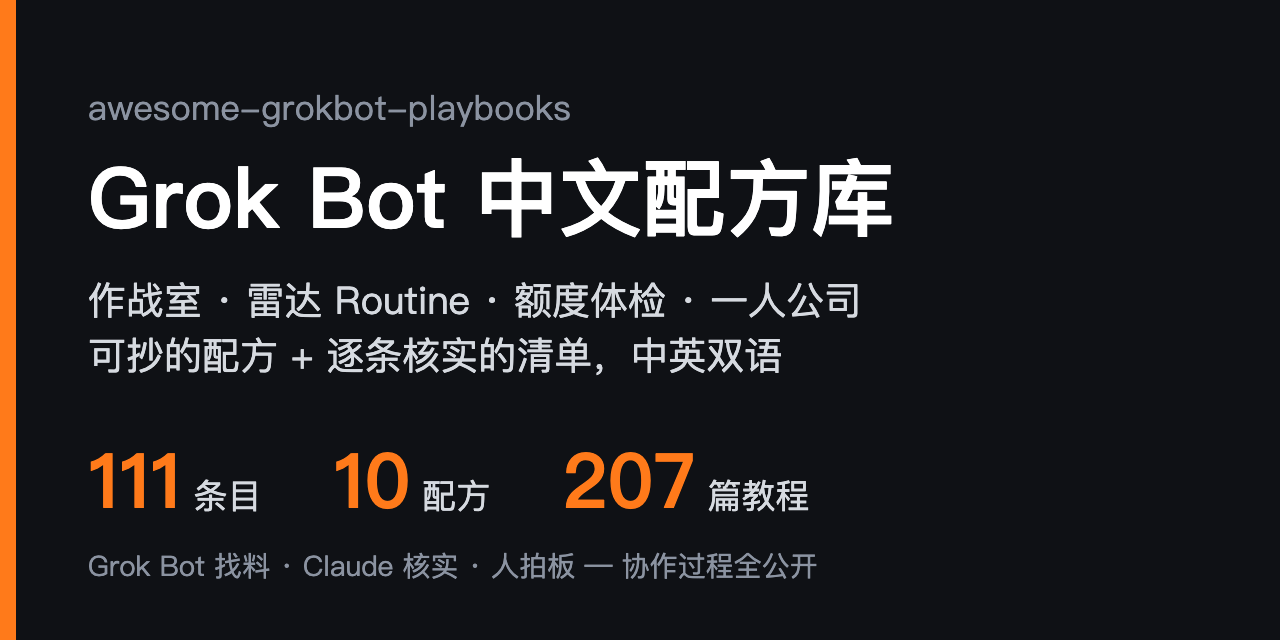
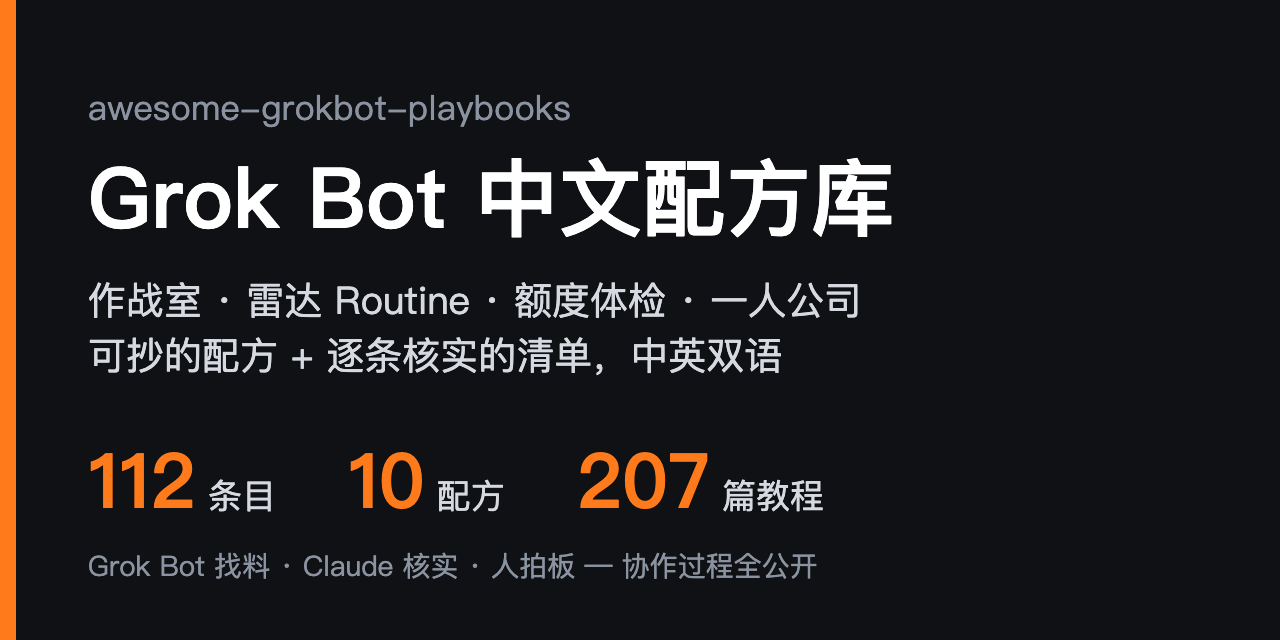
collab: loop #37 README 111 -> 112 (omarchy-grok-bot), recheck +2, rename template-rescue, reject 5

Changed region(s): [[0.4375, 0.6875, 0.6562, 0.8125], [0.25, 0.6875, 0.4062, 0.8125], [0.125, 0.6875, 0.2188, 0.8125]]

diff --git a/README.en.md b/README.en.md
@@ -8,7 +8,7 @@
 
 <p align="center">
   <a href="https://github.com/sit-in/awesome-grokbot-playbooks/stargazers"><img src="https://img.shields.io/github/stars/sit-in/awesome-grokbot-playbooks?style=flat-square&color=ff7a1a" alt="Stars"></a>
-  <img src="https://img.shields.io/badge/entries-111-blue?style=flat-square" alt="Entries">
+  <img src="https://img.shields.io/badge/entries-112-blue?style=flat-square" alt="Entries">
   <img src="https://img.shields.io/badge/recipes-10-blueviolet?style=flat-square" alt="Recipes">
   <img src="https://img.shields.io/badge/last%20verified-2026--10--22-success?style=flat-square" alt="Last verified">
   <a href="https://github.com/sit-in/awesome-grokbot-playbooks/actions/workflows/link-check.yml"><img src="https://github.com/sit-in/awesome-grokbot-playbooks/actions/workflows/link-check.yml/badge.svg" alt="link-check"></a>
@@ -25,7 +25,7 @@
 
 | | |
 |---:|---|
-| **111** | entries, each checked via the GitHub API or the live page: it exists, is still maintained and is actually about Grok Bot; license caveats are noted in the review |
+| **112** | entries, each checked via the GitHub API or the live page: it exists, is still maintained and is actually about Grok Bot; license caveats are noted in the review |
 | **10** | copy-paste recipes in one format: scenario → inputs → steps → prompt → output → pitfalls, all examples sanitized |
 | **3 levels** | of verification: ✅ run end-to-end · 🔍 docs and config reviewed · no mark = repo verified only. ✅ is only for things actually run |
 | **207** | curated community tutorials and X articles ([33 tutorials](docs/community-tutorials.md) + [174 articles from top X creators](docs/x-articles.md)) plus the maintainer's own series, each checked for liveness, author and date |
@@ -61,9 +61,9 @@ It is a different product from the Grok chat assistant and the Grok Build coding
 
 ## 🆕 Recently added
 
-- **10-25** Four rechecked repos added: [grok-bot-agents](https://github.com/AgwaB/grok-bot-agents), which hands heavy work to Claude Code / Codex on the bot's cloud computer; the household-reminders template [Follow-Through](https://github.com/jeffgreendesign/follow-through); [Bot Monitoring Room](https://github.com/Olivia295/grokbot-team-monitor-UI), your bot team as a living office; and the ESP32 desk pet [Grok Bot ESP32 Companion](https://github.com/vliuyt/grok-bot-esp32-bridge); articles from top X creators grew to 174
+- **10-25** Added the Omarchy bar plugin [Grok Bot for Omarchy](https://github.com/hmarquez-solutions/omarchy-grok-bot): one face tells you whether your bots are working, have unread news or are waiting on you; articles from top X creators grew to 174
+- **10-25** Four rechecked repos added: [grok-bot-agents](https://github.com/AgwaB/grok-bot-agents), which hands heavy work to Claude Code / Codex on the bot's cloud computer; the household-reminders template [Follow-Through](https://github.com/jeffgreendesign/follow-through); [Bot Monitoring Room](https://github.com/Olivia295/grokbot-team-monitor-UI), your bot team as a living office; and the ESP32 desk pet [Grok Bot ESP32 Companion](https://github.com/vliuyt/grok-bot-esp32-bridge)
 - **10-24** Added the family dinner-planning template [Personal Chef](https://github.com/anselmcmakin/personal-chef): a week of dinners planned around allergies and budget, with recipe cards, a grocery list and a filled Walmart cart waiting for you to check out
-- **10-24** Added three: [grokbot-executive-team](https://github.com/meir-bot/grokbot-executive-team), an exec bot team built from one prompt; [grokbot-skills](https://github.com/dallintwatts/grokbot-skills), which installs a template's skills and checks their sha256; and the Chinese directory [Grok Bot Hub](https://github.com/ddhjy/grok-bot-hub)
 
 Full history: [README commits](https://github.com/sit-in/awesome-grokbot-playbooks/commits/main/README.md).
 
@@ -71,7 +71,7 @@ Full history: [README commits](https://github.com/sit-in/awesome-grokbot-playboo
 
 - [Official & SDK](#-official--sdk) (5) - official docs, marketplace, SDKs and CLIs
 - [Templates & directories](#-templates--directories) (11) - template libraries, bot-share indexes and use-case sites; check here first
-- [Skills & Playbooks](#-skills--playbooks) (36) - skills, MCP, single templates, copy-paste profiles
+- [Skills & Playbooks](#-skills--playbooks) (37) - skills, MCP, single templates, copy-paste profiles
 - [Multi-bot teams](#-multi-bot-teams) (23) - war rooms, coordinators, multi-agent work
 - [Routines & Digests](#-routines--digests) (7) - scheduled radars, weekly reviews, usage control
 - [Chinese solo-founder](#-chinese-solo-founder) (4) - global support, WeChat, Chinese configs
@@ -139,6 +139,7 @@ Full history: [README commits](https://github.com/sit-in/awesome-grokbot-playboo
 - [Android Grok Home](https://github.com/drumpat01/android-grok-home) - Unofficial Android home launcher (Android 11+, a plain APK, no flashing): an animated avatar wall shows which bots are working, which have a hand raised for you and which just finished, with per-bot voice and text chat. It reaches your own existing bots through a BDK (@cursor/bdk) bridge on your computer; no accounts or keys ship with it, and there is a Demo mode. You build the APK yourself and keep the bridge running on your computer; keep its port on loopback and use private Tailscale for remote access. Some features rely on undocumented interfaces and may break on upstream updates. Tags: `android` `launcher` `bdk` `voice`
 - [Grokbot Widget](https://github.com/imranbarbhuiya/grokbot-widget) - A floating macOS companion (macOS 14+): a draggable character with an expandable chat panel that talks to one of your existing bots through the BDK; release builds bundle Node, so no Terminal needed. The local server binds to loopback only; releases are not notarized, so you allow the app once in System Settings; a mistyped bot name can make the BDK create an empty bot. Tags: `macos` `widget` `bdk`
 - [TetherBot](https://github.com/GrokkingGrok/TetherBot) - Tethers a GNOME desktop to Grok Bot: top-bar status, notifications and quick actions, sending to your bots through a webhook routine and reading their output back from a private GitHub data repo. Runs a user-level daemon that keeps secrets in the system keyring. Pre-alpha, GPL-2.0-or-later. Tags: `gnome` `linux` `desktop` `webhook`
+- [Grok Bot for Omarchy](https://github.com/hmarquez-solutions/omarchy-grok-bot) - An Omarchy (Arch Linux desktop) bar plugin: a Grok Bot face that shows asleep, idle, working, unread or waiting, with the name of the bot that needs you. Click for a panel that puts blocked bots and their reasons first, then every other bot with its last line and unread count. It only reads the state files the desktop app leaves on disk, never talks to servers, reads credentials or writes into the app's folders; "working" is inferred from file writes, so a slow reply can look idle. Tags: `linux` `desktop` `status`
 - [Agent Harbor](https://github.com/TommyBez/agent-harbor) - A macOS workspace that keeps Claude Code and Codex sessions alive in dedicated tmux sessions: you watch, take over or resume them in the desktop app, and Grok Bot drives the same controller through the desktop app's local command execution, with no public server. That means letting the bot run commands on your computer; it is an early experimental release, so try it on an authorized test project first. Tags: `claude-code` `codex` `tmux` `macos`
 - [grok-bot-mcp](https://github.com/cherwinyu/grok-bot-mcp) - A local MCP bridge for Windows: hand one scoped coding task to a Grok Bot routine exactly once, then verify it with Git diffs and frozen evidence instead of a "done" reply. An administrator fixes the Git root, allowed files and test command first; an offline demo runs without any account. Marked experimental beta and unofficial by the author; has a Chinese README. Tags: `mcp` `windows` `coding` `routine`
 - [grokbot-skills](https://github.com/dallintwatts/grokbot-skills) - A workaround for template imports that don't carry skills: on first chat the bot asks "Want me to finish setting up?", and on yes it downloads its skills from a pinned commit, checks each file's sha256 and size against `PINS.txt`, and installs nothing that doesn't match. The repo holds the skills for two templates, Second Opinion Council and Fleet Doctor; the pinning approach carries over to any template you distribute. MIT. Tags: `skills` `templates` `sha256`

diff --git a/.collab/recheck.md b/.collab/recheck.md
@@ -135,8 +135,10 @@ Claude 维护。仓库没过收录门槛（见 [CONTRIBUTING.md](../CONTRIBUTING
 | [JaxonWright/bot-catalog-for-grok-bot-template](https://github.com/JaxonWright/bot-catalog-for-grok-bot-template) | 10-30 | 1★ · GPL-3.0 · 建 10-23 · 最近提交 10-24 | 自更新 bot 目录模板：分享链接给的是拷贝、不随作者更新，目录里每个 bot 带日更 routine，有新 release 才问你升不升；GPL-3.0 要写明；过线放「模板与目录」 |
 | [lucasjsbarbosa/grokctl](https://github.com/lucasjsbarbosa/grokctl) | 10-31 | 0★ · MIT · 建 10-24 · 最近提交 10-24 | 命令行驱动桌面端：经 CDP（只绑 127.0.0.1）往输入框打字、读回复，让 Claude Code / Codex 派活给 bot；作者写明 App 一更新就可能坏、自动化或违反条款，收的话写明 |
 | [dorukardahan/grokbox](https://github.com/dorukardahan/grokbox) | 10-31 | 0★ · MIT · 建 10-24 · 最近提交 10-24 | bot 云电脑持续加密增量备份（restic + rclone 到自己的 Google Drive），空仓回滚守门、SQLite 在线拷；和一次性导出类互补；过线放「技能与玩法」 |
-| [brefledev/template-rescue](https://github.com/brefledev/template-rescue) | 10-31 | 0★ · MIT · 建 10-24 · 最近提交 10-24 | 导入模板缺 skill 的救援包：校验作者 GitHub bundle、从截图重建 skill、导出备份；作者标 experimental；和已收的 dallintwatts/grokbot-skills 对照看 |
+| [brefledev/unfinished-botness](https://github.com/brefledev/unfinished-botness) | 10-31 | 0★ · MIT · 建 10-24 · 最近提交 10-25 | 原名 template-rescue，10-25 改名并扩成模板导入、导出、skill 分享套件；导入模板缺 skill 的救援包：校验作者 GitHub bundle、从截图重建 skill、导出备份；作者标 experimental；和已收的 dallintwatts/grokbot-skills 对照看 |
 | [pawelmical/agent-relay](https://github.com/pawelmical/agent-relay) | 10-31 | 0★ · MIT · 建 10-24 · 最近提交 10-24 | Cloudflare Workers 远程 MCP 任务信箱：Claude（OAuth）和 Grok Bot（Bearer）互相留活、认领、回写，webhook 叫醒 bot；过线放「多 Bot 团队」 |
+| [abhione/grokbot-browser-fleet](https://github.com/abhione/grokbot-browser-fleet) | 10-31 | 0★ · Apache-2.0 · 建 10-24 · 最近提交 10-24 | 本机浏览器舰队：每个 bot 一个独立 Chrome 配置，外发（私信、发帖、邮件、购买）要人批，有发送上限、去重、勿扰名单和 STOP 文件一键熔断；macOS 优先；过线放「技能与玩法」 |
+| [GrokBot-Cursor/box-butler](https://github.com/GrokBot-Cursor/box-butler) | 11-01 | 0★ · MIT · 建 10-25 · 最近提交 10-25 | Freebox（法国运营商家庭服务器）管家 bot：一段 PROMPT 加 12 个 skill（WireGuard、Docker、Plex、Home Assistant 等），逐步征询；垂直，也附 Cursor rules |
 
 ## 已移出
 

diff --git a/.collab/loop-state.md b/.collab/loop-state.md
@@ -1,7 +1,7 @@
 # loop-state
-- last_run: 2026-10-25 08:18 Asia/Shanghai
-- last_to_claude_heading: ### 2026-10-25 08:01 Grok 请 loop 审
+- last_run: 2026-10-25 10:17 Asia/Shanghai
+- last_to_claude_heading: ### 2026-10-25 10:05 Grok 请 loop 审
 - idle_rounds: 0
-- rounds_this_session: 36
+- rounds_this_session: 37
 - session_started: 2026-10-21 11:50 Asia/Shanghai（10-21 22:40 起改为早 8 点到凌晨 2 点每 2h，不设轮数上限；cron 5294bf8e）
 - note: 10-21 规则调整：门槛见 CONTRIBUTING#收录门槛；暂缓仓见 recheck.md（每轮看到期行）；早 8 点到凌晨 2 点每 2h；promo 不再同步，README 首图用 scripts/banner.py 随数字重出（HTML 模板 assets/banner/banner.html），社交预览用不带数字的 social-card.png。README 分区 9 个、标题带 emoji，锚点带前导 -；🆕 最近更新留最近 3 行
